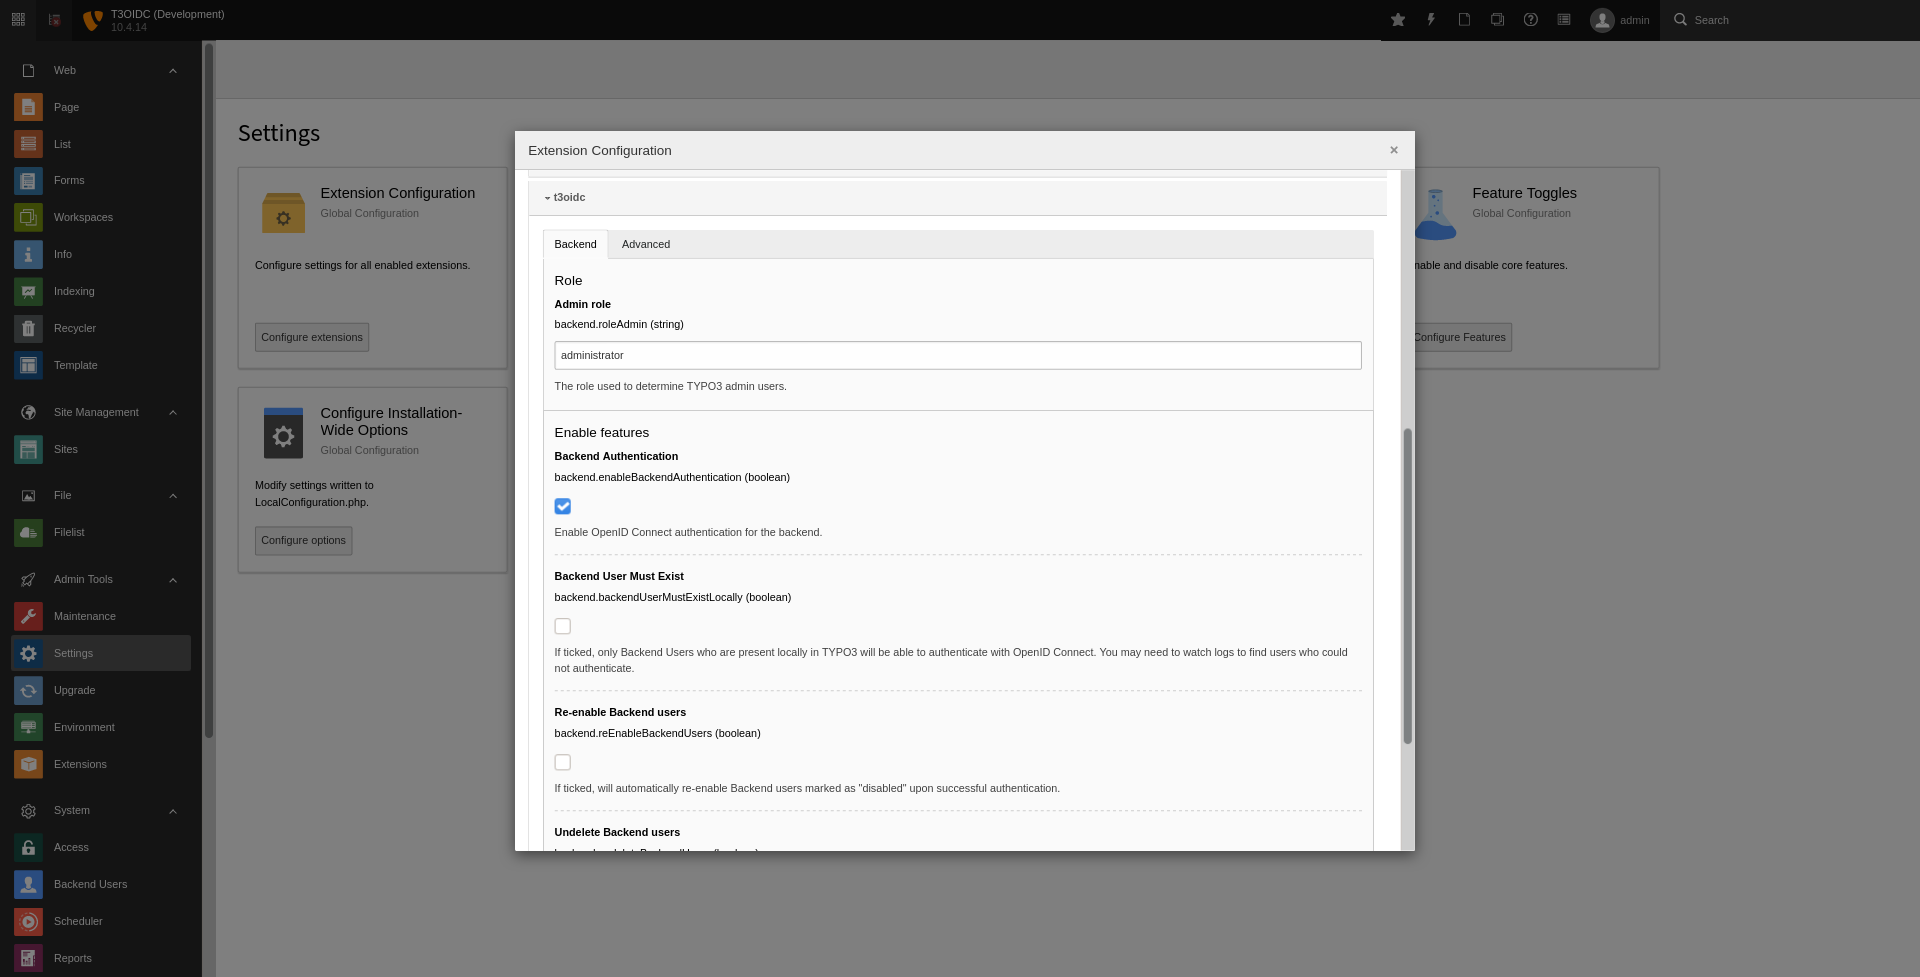
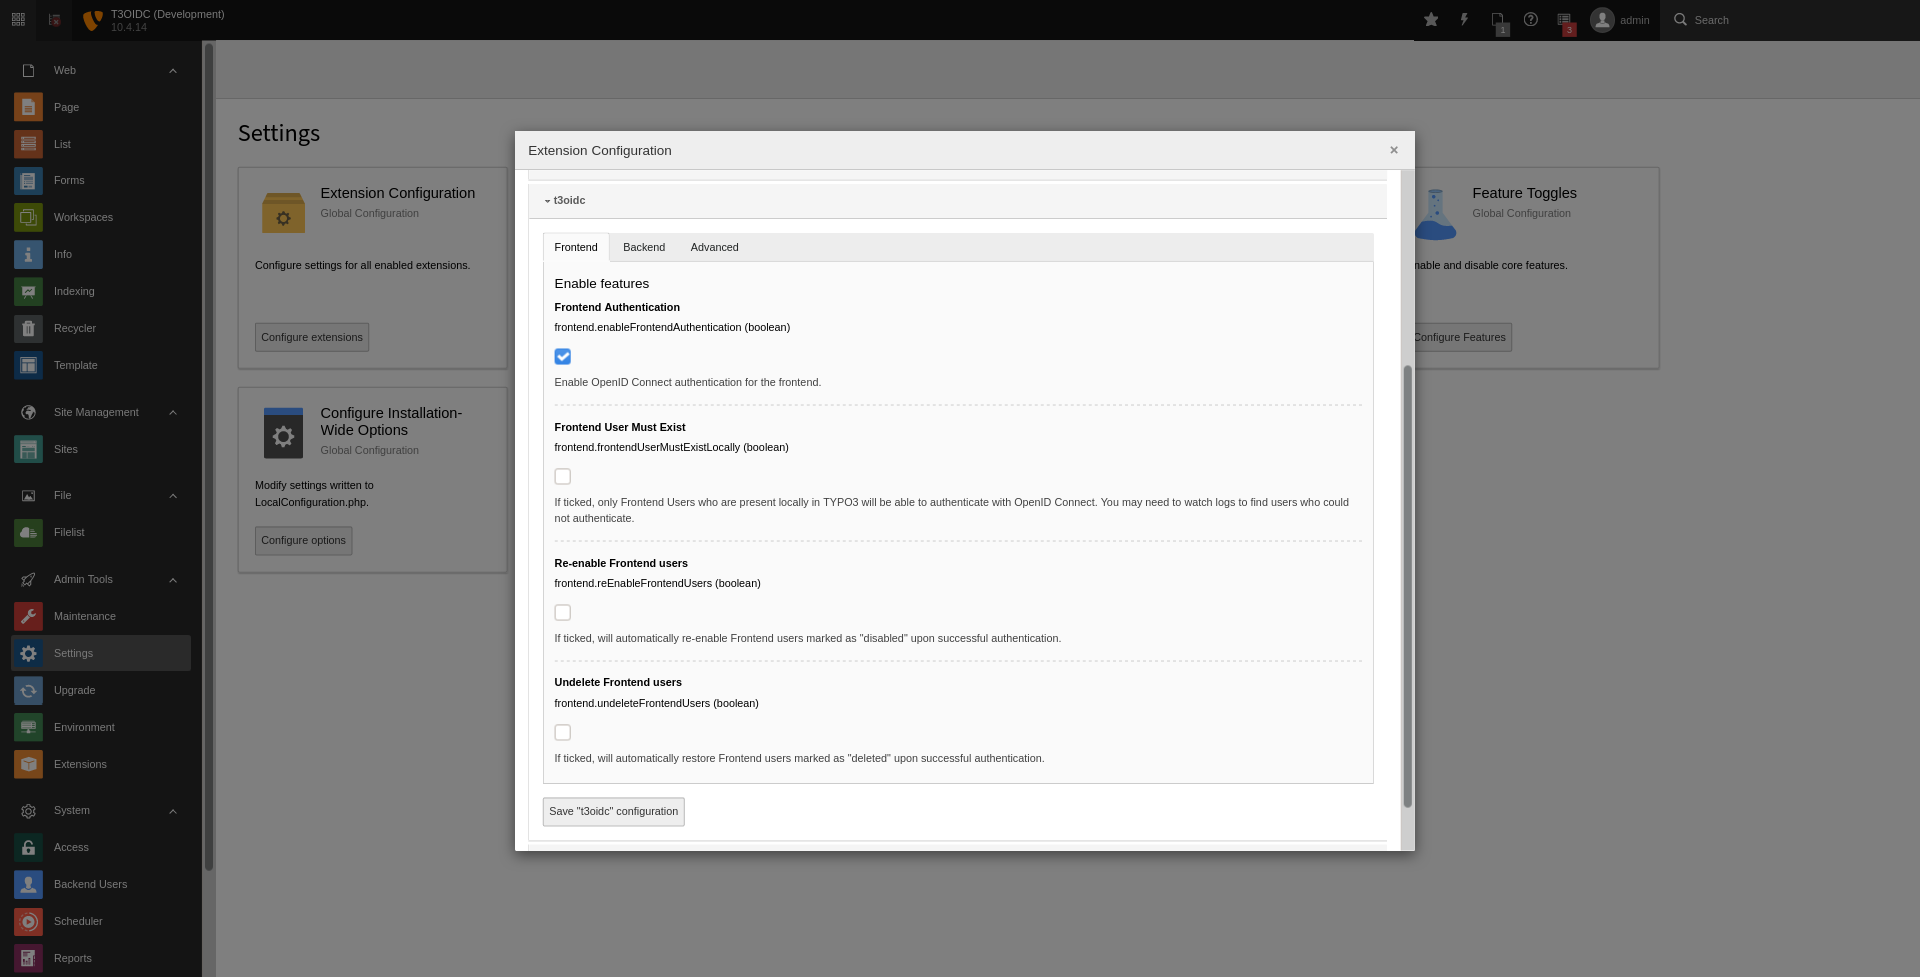
[TASK] Add documentation of the frontend extension configuration

diff --git a/Documentation/Admin/ExtensionConfiguration/Index.rst b/Documentation/Admin/ExtensionConfiguration/Index.rst
@@ -22,6 +22,10 @@ Properties
    ==================================== ==================================== ==================
    Property                             Tab                                  Type
    ==================================== ==================================== ==================
+   enableFrontendAuthentication_        Frontend                             boolean
+   frontendUserMustExistLocally_        Frontend                             boolean
+   reEnableFrontendUsers_               Frontend                             boolean
+   undeleteFrontendUsers_               Frontend                             boolean
    enableBackendAuthentication_         Backend                              boolean
    backendUserMustExistLocally_         Backend                              boolean
    reEnableBackendUsers_                Backend                              boolean
@@ -39,20 +43,80 @@ Properties
 
 .. ### BEGIN~OF~TABLE ###
 
-.. _admin-extensionConfiguration-properties-enableBackendAuthentication:
+.. _admin-extensionConfiguration-properties-enableFrontendAuthentication:
 
-enableBackendAuthentication
+enableFrontendAuthentication
 ---------------------------
 .. container:: table-row
 
    Property
-         enableBackendAuthentication
+         enableFrontendAuthentication
    Data type
          boolean
    Default
          :code:`false`
    Description
-         Enable OpenID Connect login for TYPO3 backend.
+         Enable OpenID Connect login for TYPO3 frontend.
+
+.. _admin-extensionConfiguration-properties-frontendUserMustExistLocally:
+
+frontendUserMustExistLocally
+---------------------------
+.. container:: table-row
+
+   Property
+         frontendUserMustExistLocally
+   Data type
+         boolean
+   Default
+         :code:`false`
+   Description
+         Allow log in for existing frontend users only.
+
+.. _admin-extensionConfiguration-properties-reEnableFrontendUsers:
+
+reEnableFrontendUsers
+--------------------
+.. container:: table-row
+
+   Property
+         reEnableFrontendUsers
+   Data type
+         boolean
+   Default
+         :code:`false`
+   Description
+         Allow log in for disabled frontend users.
+
+.. _admin-extensionConfiguration-properties-undeleteFrontendUsers:
+
+undeleteFrontendUsers
+--------------------
+.. container:: table-row
+
+   Property
+         undeleteFrontendUsers
+   Data type
+         boolean
+   Default
+         :code:`false`
+   Description
+         Allow log in for deleted frontend users.
+
+.. _admin-extensionConfiguration-properties-enableFrontendAuthentication:
+
+enableFrontendAuthentication
+---------------------------
+.. container:: table-row
+
+   Property
+         enableFrontendAuthentication
+   Data type
+         boolean
+   Default
+         :code:`false`
+   Description
+         Enable OpenID Connect login for TYPO3 frontend.
 
 .. _admin-extensionConfiguration-properties-backendUserMustExistLocally:
 
